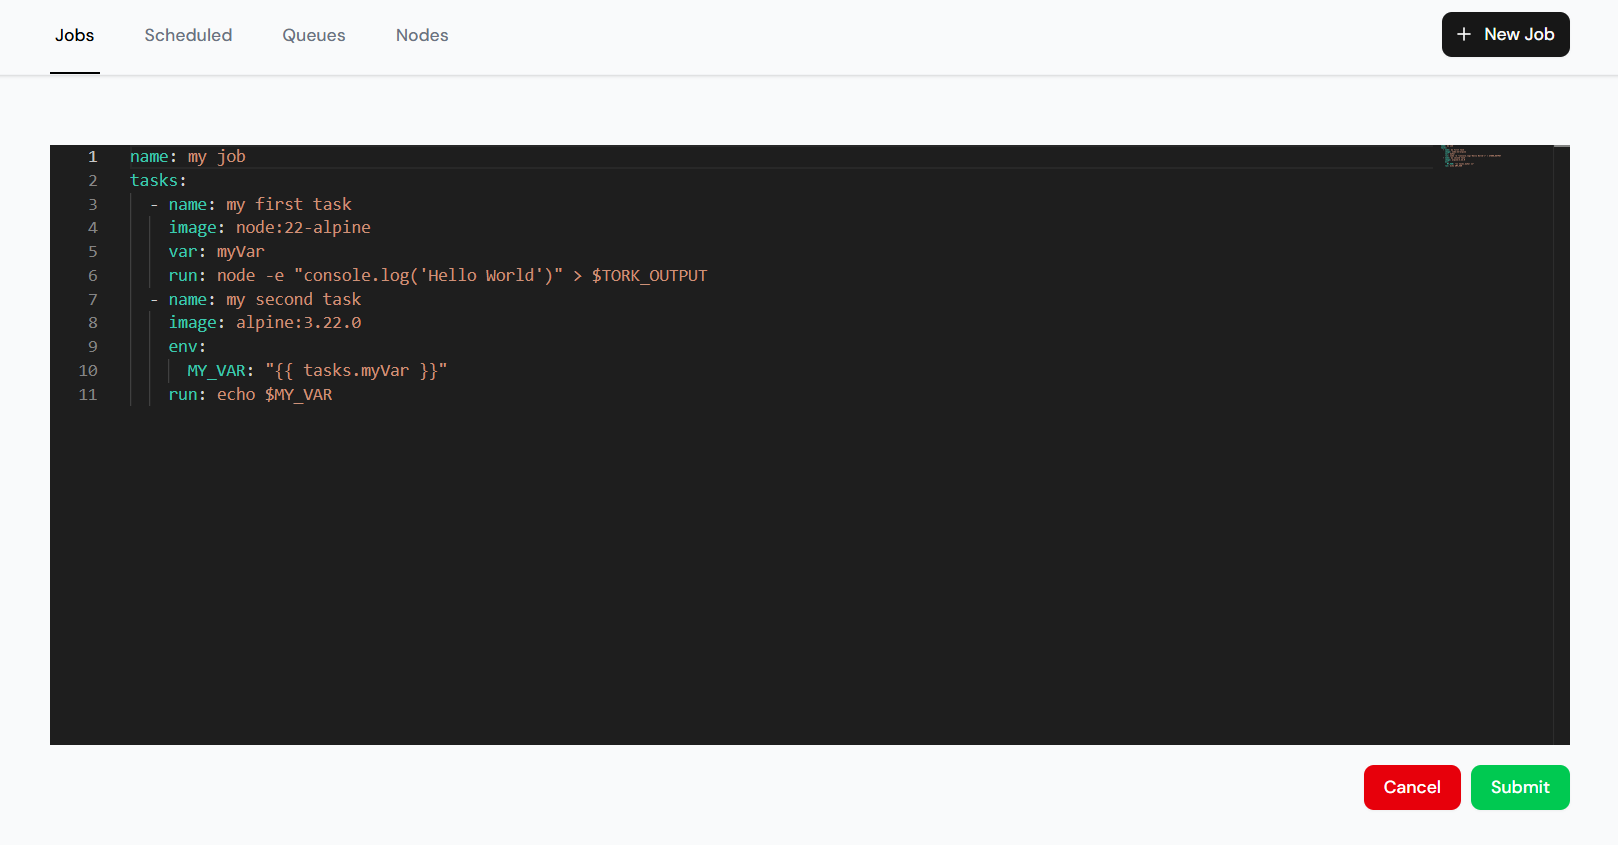
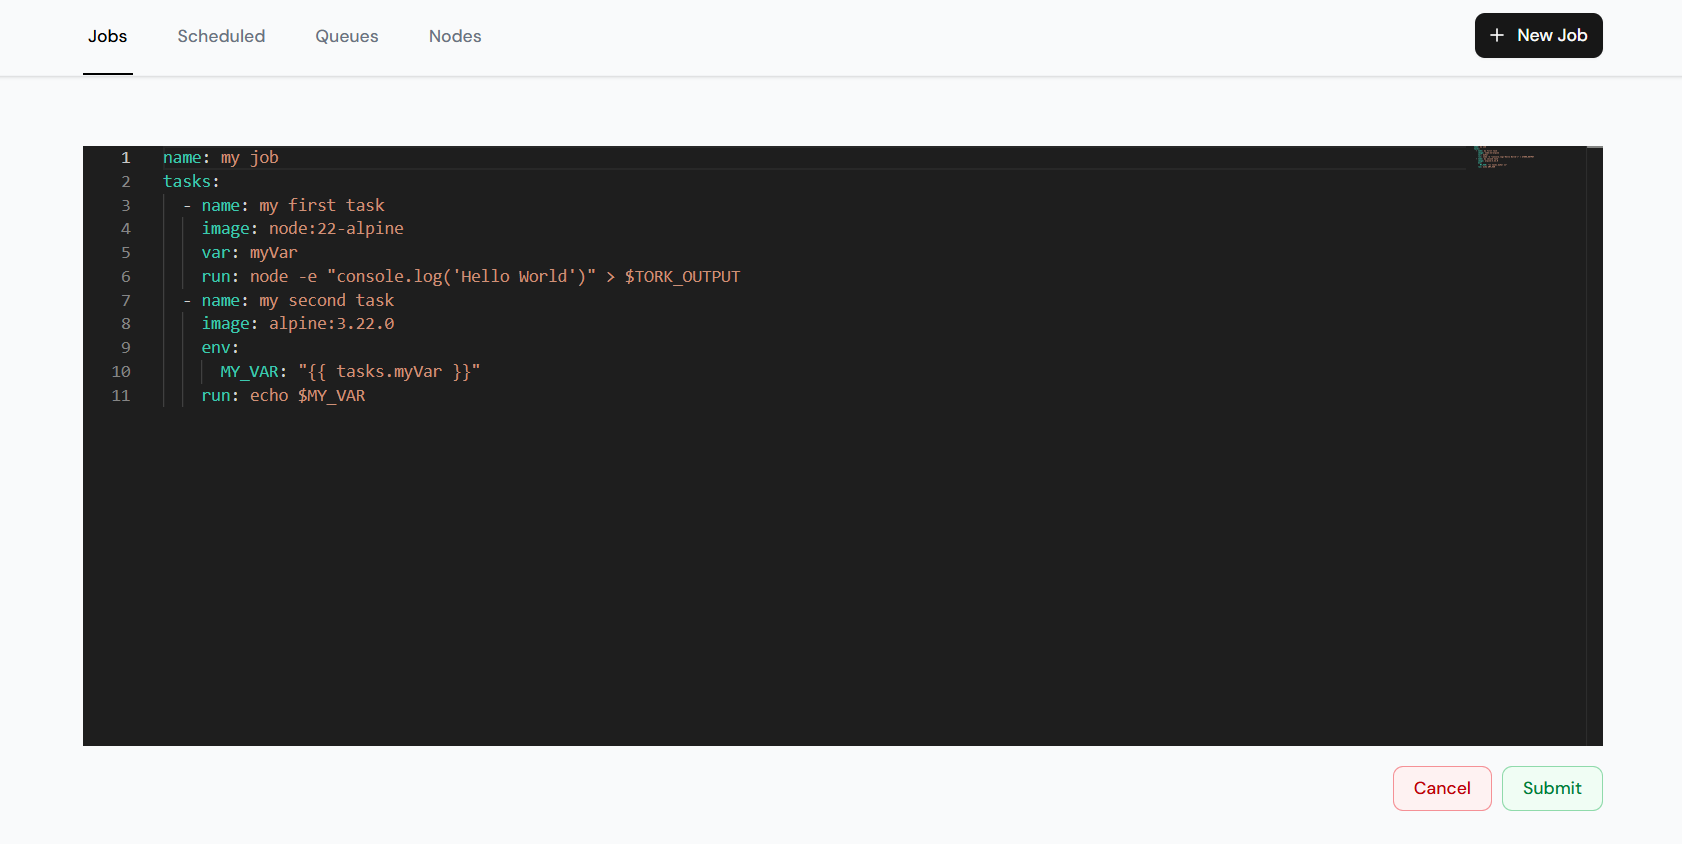
chore: Improved button names and styles

diff --git a/src/components/ui/button.tsx b/src/components/ui/button.tsx
@@ -12,23 +12,15 @@ const buttonVariants = cva(
       variant: {
         default:
           'bg-primary text-primary-foreground shadow-xs hover:bg-primary/90',
-        success:
-          'bg-green-500 text-white shadow-xs hover:bg-green-600 focus-visible:ring-green-500/20 dark:focus-visible:ring-green-500/40',
         destructive:
-          'bg-destructive text-white shadow-xs hover:bg-destructive/70 focus-visible:ring-destructive/20 dark:focus-visible:ring-destructive/40',
-        warning:
-          'bg-orange-500 text-white shadow-xs hover:bg-orange-600 focus-visible:ring-orange-500/20 dark:focus-visible:ring-orange-500/40',
-        info: 'bg-blue-500 text-white shadow-xs hover:bg-blue-600 focus-visible:ring-blue-500/20 dark:focus-visible:ring-blue-500/40',
+          'border text-red-700 dark:text-red-500 border-red-600/40 bg-red-50 dark:bg-red-500/20 dark:hover:bg-red-500/40 hover:bg-red-100',
         outline:
           'border bg-background shadow-xs hover:bg-accent dark:bg-input/30 dark:border-input dark:hover:bg-input/50 dark:border-gray-700',
-        outlineSuccess:
+        success:
           'border text-green-700 dark:text-green-500 border-green-600/40 bg-green-50 dark:bg-green-500/30 dark:hover:bg-green-500/40 hover:bg-green-100',
-        outlineWarning:
+        warning:
           'border text-orange-700 dark:text-orange-500 border-orange-600/40 bg-orange-50 dark:bg-orange-500/30 dark:hover:bg-orange-500/40 hover:bg-orange-100',
-        outlineError:
-          'border text-red-700 dark:text-red-500 border-red-600/40 bg-red-50 dark:bg-red-500/20 dark:hover:bg-red-500/40 hover:bg-red-100',
-        outlineInfo:
-          'border text-blue-700 dark:text-blue-500 border-blue-600/40 bg-blue-50 dark:bg-blue-500/30 dark:hover:bg-blue-500/40 hover:bg-blue-100',
+        info: 'border text-blue-700 dark:text-blue-500 border-blue-600/40 bg-blue-50 dark:bg-blue-500/30 dark:hover:bg-blue-500/40 hover:bg-blue-100',
         secondary:
           'bg-secondary text-secondary-foreground shadow-xs hover:bg-secondary/80',
         ghost:

diff --git a/src/app/jobs/[id]/page.tsx b/src/app/jobs/[id]/page.tsx
@@ -58,11 +58,11 @@ export default async function JobPage({ params }: Props) {
           <p className="hidden md:block text-sm text-gray-500 mt-3 whitespace-pre border-b border-gray-300 dark:border-gray-700 pb-4">
             {job.description}
           </p>
-          <div className="mt-2 flex flex-col sm:flex-row sm:flex-wrap sm:space-x-6">
+          <div className="mt-2 flex flex-col sm:flex-row sm:flex-wrap gap-4">
             <div className="flex items-center text-sm my-1">
               <StateBadge textSize="text-base" name={job.state} />
             </div>
-            <div className="mt-2 flex items-center text-sm text-gray-500">
+            <div className="flex items-center text-sm text-gray-500">
               <CalendarIcon
                 className="mr-1.5 h-5 w-5 shrink-0 text-gray-400"
                 aria-hidden="true"
@@ -70,7 +70,7 @@ export default async function JobPage({ params }: Props) {
               Created at {formatTimestamp(job.createdAt)}
             </div>
             {(job.completedAt || job.failedAt) && (
-              <div className="mt-2 flex items-center text-sm text-gray-500">
+              <div className="flex items-center text-sm text-gray-500">
                 <CalendarIcon
                   className="mr-1.5 h-5 w-5 shrink-0 text-gray-400"
                   aria-hidden="true"
@@ -81,7 +81,7 @@ export default async function JobPage({ params }: Props) {
                   : formatTimestamp(job.failedAt)}
               </div>
             )}
-            <div className="mt-2 flex items-center text-sm text-gray-500">
+            <div className="flex items-center text-sm text-gray-500">
               <ClockIcon
                 className="mr-1.5 h-5 w-5 shrink-0 text-gray-400"
                 aria-hidden="true"

diff --git a/src/components/pause-scheduled-job.tsx b/src/components/pause-scheduled-job.tsx
@@ -27,8 +27,6 @@ export default function PauseScheduledJob({ job }: Props) {
       if (!response.ok) {
         throw new Error(response.statusText);
       }
-      const data = await response.json();
-      console.log(data);
       router.refresh();
       setOpen(false);
     } catch (error: any) {
@@ -39,7 +37,7 @@ export default function PauseScheduledJob({ job }: Props) {
   return (
     <Dialog open={open} onOpenChange={setOpen}>
       <DialogTrigger asChild>
-        <Button variant="outlineWarning" size="sm">
+        <Button variant="warning" size="sm">
           Pause
         </Button>
       </DialogTrigger>
@@ -62,7 +60,7 @@ export default function PauseScheduledJob({ job }: Props) {
           </div>
         </DialogHeader>
         <DialogFooter>
-          <Button variant="outline" onClick={() => setOpen(false)}>
+          <Button variant="destructive" onClick={() => setOpen(false)}>
             Cancel
           </Button>
           <Button variant="success" onClick={handlePauseScheduledJob}>

diff --git a/src/components/delete-scheduled-job.tsx b/src/components/delete-scheduled-job.tsx
@@ -26,8 +26,6 @@ export default function DeleteScheduledJob({ job }: Props) {
       if (!response.ok) {
         throw new Error(response.statusText);
       }
-      const data = await response.json();
-      console.log(data);
       router.refresh();
     } catch (error: any) {
       console.error(error);
@@ -38,7 +36,7 @@ export default function DeleteScheduledJob({ job }: Props) {
     <>
       <Dialog>
         <DialogTrigger asChild>
-          <Button type="button" variant="outlineError" size="sm">
+          <Button type="button" variant="destructive" size="sm">
             Delete
           </Button>
         </DialogTrigger>

diff --git a/src/components/cancel-job.tsx b/src/components/cancel-job.tsx
@@ -64,13 +64,13 @@ export default function CancelJob({ job }: Props) {
           <DialogClose asChild>
             <Button
               type="button"
-              variant="outline"
+              variant="destructive"
               onClick={() => setOpen(false)}
             >
               Cancel
             </Button>
           </DialogClose>
-          <Button type="button" variant="destructive" onClick={handleCancel}>
+          <Button type="button" variant="success" onClick={handleCancel}>
             Confirm
           </Button>
         </DialogFooter>

diff --git a/src/app/jobs/page.tsx b/src/app/jobs/page.tsx
@@ -65,8 +65,7 @@ export default async function JobsPage({ searchParams }: Props) {
 
   return (
     <div className="flex gap-10 flex-col">
-      <h2 className="text-3xl font-semibold text-center">Jobs</h2>
-      <div className="flex justify-end">
+      <div className="mt-10 flex justify-end">
         <Refresh />
       </div>
       <div className="grid grid-cols-1 gap-5 sm:grid-cols-4">

diff --git a/src/app/scheduled/page.tsx b/src/app/scheduled/page.tsx
@@ -31,8 +31,7 @@ export default async function ScheduledPage() {
 
   return (
     <div className="flex flex-col gap-10">
-      <h2 className="text-3xl font-semibold text-center">Scheduled Jobs</h2>
-      <div className="flex justify-end">
+      <div className="mt-10 flex justify-end">
         <Refresh />
       </div>
       <DataTable columns={tableColumns} page={scheduledJobsPaged}>

diff --git a/src/app/queues/page.tsx b/src/app/queues/page.tsx
@@ -40,8 +40,7 @@ export default async function QueuesPage() {
 
   return (
     <div className="flex flex-col gap-10">
-      <h2 className="text-3xl font-semibold text-center">Queues</h2>
-      <div className="flex justify-end">
+      <div className="mt-10 flex justify-end">
         <Refresh />
       </div>
       <DataTable columns={tableColumns}>

diff --git a/src/app/nodes/page.tsx b/src/app/nodes/page.tsx
@@ -39,8 +39,7 @@ export default async function NodesPage() {
 
   return (
     <div className="flex flex-col gap-10">
-      <h2 className="text-3xl font-semibold text-center">Nodes</h2>
-      <div className="flex justify-end">
+      <div className="mt-10 flex justify-end">
         <Refresh />
       </div>
       <DataTable columns={tableColumns}>

diff --git a/src/components/task-info.tsx b/src/components/task-info.tsx
@@ -30,7 +30,7 @@ export default function TaskInfo({ task }: Props) {
         </DialogHeader>
         <DialogFooter>
           <DialogClose asChild>
-            <Button type="button" variant="outlineError">
+            <Button type="button" variant="destructive">
               Close
             </Button>
           </DialogClose>

diff --git a/src/components/task-logs.tsx b/src/components/task-logs.tsx
@@ -102,7 +102,7 @@ export default function TaskLogs({ task }: Props) {
             <Button
               ref={cancelButtonRef}
               type="button"
-              variant="outlineError"
+              variant="destructive"
               onClick={() => {
                 setContents('');
                 setOpen(false);

diff --git a/src/components/job-logs.tsx b/src/components/job-logs.tsx
@@ -94,7 +94,7 @@ export default function JobLogs({ job }: Props) {
           <DialogClose asChild>
             <Button
               type="button"
-              variant="outlineError"
+              variant="destructive"
               onClick={() => {
                 setContents('');
                 setOpen(false);
